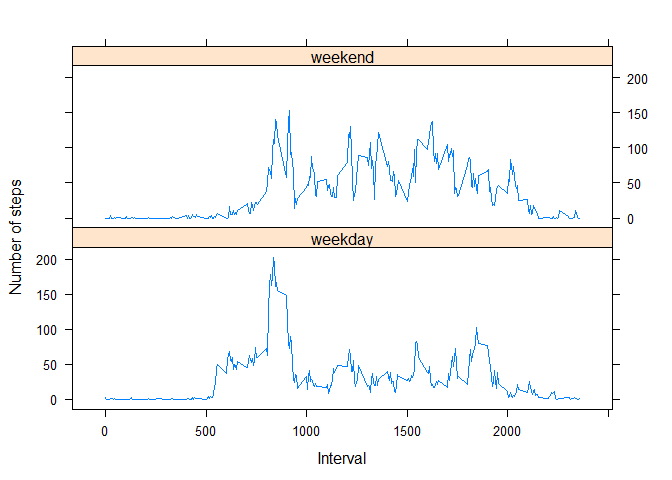
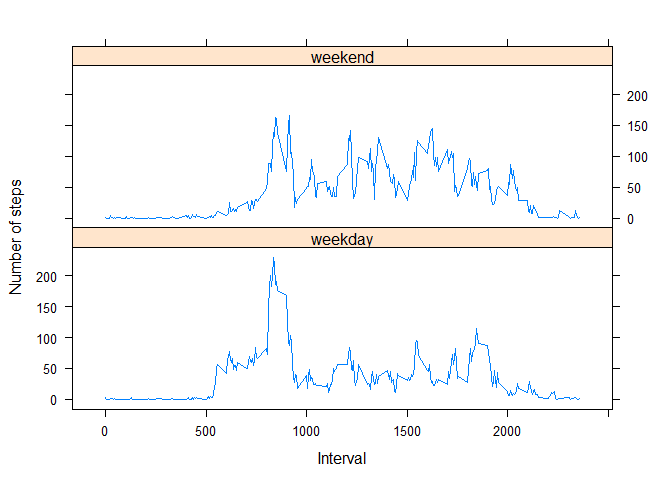
Second commit

diff --git a/PA1_template.html b/PA1_template.html
@@ -126,18 +126,15 @@ options(scipen = 999, digits = 4)</code></pre>
 <div id="loading-and-preprocessing-the-data" class="section level2">
 <h2>Loading and preprocessing the data</h2>
 <pre class="r"><code>activityDF &lt;- read.csv(&quot;activity.csv&quot;)
-good &lt;- complete.cases(activityDF$steps)
-hist(activityDF$steps[good],
-     col = &quot;red&quot;, xlab = &quot;Steps in 5 min interval&quot;,
-     main = &quot;Histogram of steps in 5 min interval&quot;)</code></pre>
[1 lines of base64/hex data omitted]
+stepsByDay &lt;- aggregate(activityDF$steps, by = list(date = activityDF$date),
+                        FUN = sum, na.rm = TRUE)
+hist(stepsByDay$x, col = &quot;red&quot;, xlab = &quot;Total number of steps taken each day&quot;,
+     main = &quot;Histogram of total number of steps taken each day&quot;)</code></pre>
[1 lines of base64/hex data omitted]
 </div>
 <div id="what-is-mean-total-number-of-steps-taken-per-day" class="section level2">
 <h2>What is mean total number of steps taken per day?</h2>
-<pre class="r"><code>stepsByDay &lt;- aggregate(activityDF$steps, by = list(date = activityDF$date),
-                        FUN = sum, na.rm = TRUE)
-
-meanStepsByDay &lt;- mean(stepsByDay$x)
+<pre class="r"><code>meanStepsByDay &lt;- mean(stepsByDay$x)
 medianStepsByDay &lt;- median(stepsByDay$x)</code></pre>
 <p>Mean number of steps taken each day = 9354.2295<br />
 Median number of steps taken each day = 10395</p>
@@ -152,16 +149,18 @@ plot(stepsBy5MinInt$interval, stepsBy5MinInt$x, type = &quot;l&quot;,
 </div>
 <div id="imputing-missing-values" class="section level2">
 <h2>Imputing missing values</h2>
-<pre class="r"><code>avgStepsByDay &lt;- aggregate(activityDF$steps, by = list(date = activityDF$date),
+<pre class="r"><code>good &lt;- complete.cases(activityDF)
+missingCount &lt;- nrow(activityDF[!good, ])
+avgStepsByInt &lt;- aggregate(activityDF$steps, by = list(interval = activityDF$interval),
                         FUN = mean, na.rm = TRUE)
 
 len &lt;- nrow(activityDF)
 stepsFilled &lt;- vector(mode = &quot;integer&quot;, length = len)
 for (i in 1:len) {
         if (is.na(activityDF$steps[i])) {
-                indx &lt;- which(avgStepsByDay$date == activityDF$date[i])
-                if (!is.nan(avgStepsByDay$x[indx]))     {
-                        stepsFilled[i] &lt;- avgStepsByDay$x[indx]        
+                indx &lt;- which(avgStepsByInt$interval == activityDF$interval[i])
+                if (!is.nan(avgStepsByInt$x[indx]))     {
+                        stepsFilled[i] &lt;- round(avgStepsByInt$x[indx])
                 }
                 else    {
                         stepsFilled[i] &lt;- 0
@@ -174,17 +173,18 @@ for (i in 1:len) {
 
 filledActivityDF &lt;- activityDF
 filledActivityDF$steps &lt;- stepsFilled
-
-hist(filledActivityDF$steps,
-     col = &quot;red&quot;, xlab = &quot;Filled Steps in 5 min interval&quot;,
-     main = &quot;Histogram of filled steps in 5 min interval&quot;)</code></pre>
[1 lines of base64/hex data omitted]
-<pre class="r"><code>stepsByDay &lt;- aggregate(filledActivityDF$steps, by = 
+stepsByDay &lt;- aggregate(filledActivityDF$steps, by = 
                                 list(date = filledActivityDF$date), FUN = sum)
-meanStepsByDay &lt;- mean(stepsByDay$x)
+
+hist(stepsByDay$x, col = &quot;red&quot;, xlab = &quot;Total number of filled steps taken each day&quot;,
+     main = &quot;Histogram of total number of filled steps taken each day&quot;)</code></pre>
[1 lines of base64/hex data omitted]
+<pre class="r"><code>meanStepsByDay &lt;- mean(stepsByDay$x)
 medianStepsByDay &lt;- median(stepsByDay$x)</code></pre>
-<p>Mean number of steps taken each day = 9354.2295<br />
-Median number of steps taken each day = 10395</p>
+<p>Total missing or NA count of activities = 2304<br />
+<strong>Missing value imputed using mean value for the given interval</strong><br />
+Mean number of steps taken each day after imputing missing values = 10765.6393<br />
+Median number of steps taken each day after imputing missing values = 10762</p>
 </div>
 <div id="are-there-differences-in-activity-patterns-between-weekdays-and-weekends" class="section level2">
 <h2>Are there differences in activity patterns between weekdays and weekends?</h2>
@@ -199,7 +199,7 @@ stepsBy5MinInt &lt;- aggregate(filledActivityDF$steps, by = list(interval =
 library(lattice)
 xyplot(x ~ interval | dayInd, data=stepsBy5MinInt, xlab=&quot;Interval&quot;,
        ylab=&quot;Number of steps&quot;, layout=c(1,2), type=&quot;l&quot;)</code></pre>
[2 lines of base64/hex data omitted]
 </div>
 
 

diff --git a/PA1_template.md b/PA1_template.md
@@ -10,10 +10,10 @@ options(scipen = 999, digits = 4)
 
 ```r
 activityDF <- read.csv("activity.csv")
-good <- complete.cases(activityDF$steps)
-hist(activityDF$steps[good],
-     col = "red", xlab = "Steps in 5 min interval",
-     main = "Histogram of steps in 5 min interval")
+stepsByDay <- aggregate(activityDF$steps, by = list(date = activityDF$date),
+                        FUN = sum, na.rm = TRUE)
+hist(stepsByDay$x, col = "red", xlab = "Total number of steps taken each day",
+     main = "Histogram of total number of steps taken each day")
 ```
 
 ![](PA1_template_files/figure-html/loadData_hist-1.png)<!-- -->
@@ -21,9 +21,6 @@ hist(activityDF$steps[good],
 ## What is mean total number of steps taken per day?
 
 ```r
-stepsByDay <- aggregate(activityDF$steps, by = list(date = activityDF$date),
-                        FUN = sum, na.rm = TRUE)
-
 meanStepsByDay <- mean(stepsByDay$x)
 medianStepsByDay <- median(stepsByDay$x)
 ```
@@ -44,16 +41,18 @@ plot(stepsBy5MinInt$interval, stepsBy5MinInt$x, type = "l",
 ## Imputing missing values
 
 ```r
-avgStepsByDay <- aggregate(activityDF$steps, by = list(date = activityDF$date),
+good <- complete.cases(activityDF)
+missingCount <- nrow(activityDF[!good, ])
+avgStepsByInt <- aggregate(activityDF$steps, by = list(interval = activityDF$interval),
                         FUN = mean, na.rm = TRUE)
 
 len <- nrow(activityDF)
 stepsFilled <- vector(mode = "integer", length = len)
 for (i in 1:len) {
         if (is.na(activityDF$steps[i])) {
-                indx <- which(avgStepsByDay$date == activityDF$date[i])
-                if (!is.nan(avgStepsByDay$x[indx]))     {
-                        stepsFilled[i] <- avgStepsByDay$x[indx]        
+                indx <- which(avgStepsByInt$interval == activityDF$interval[i])
+                if (!is.nan(avgStepsByInt$x[indx]))     {
+                        stepsFilled[i] <- round(avgStepsByInt$x[indx])
                 }
                 else    {
                         stepsFilled[i] <- 0
@@ -66,23 +65,24 @@ for (i in 1:len) {
 
 filledActivityDF <- activityDF
 filledActivityDF$steps <- stepsFilled
+stepsByDay <- aggregate(filledActivityDF$steps, by = 
+                                list(date = filledActivityDF$date), FUN = sum)
 
-hist(filledActivityDF$steps,
-     col = "red", xlab = "Filled Steps in 5 min interval",
-     main = "Histogram of filled steps in 5 min interval")
+hist(stepsByDay$x, col = "red", xlab = "Total number of filled steps taken each day",
+     main = "Histogram of total number of filled steps taken each day")
 ```
 
 ![](PA1_template_files/figure-html/missing_value-1.png)<!-- -->
 
 ```r
-stepsByDay <- aggregate(filledActivityDF$steps, by = 
-                                list(date = filledActivityDF$date), FUN = sum)
 meanStepsByDay <- mean(stepsByDay$x)
 medianStepsByDay <- median(stepsByDay$x)
 ```
 
-Mean number of steps taken each day = 9354.2295  
-Median number of steps taken each day = 10395
+Total missing or NA count of activities = 2304  
+**Missing value imputed using mean value for the given interval**  
+Mean number of steps taken each day after imputing missing values = 10765.6393  
+Median number of steps taken each day after imputing missing values = 10762
 
 ## Are there differences in activity patterns between weekdays and weekends?
 
